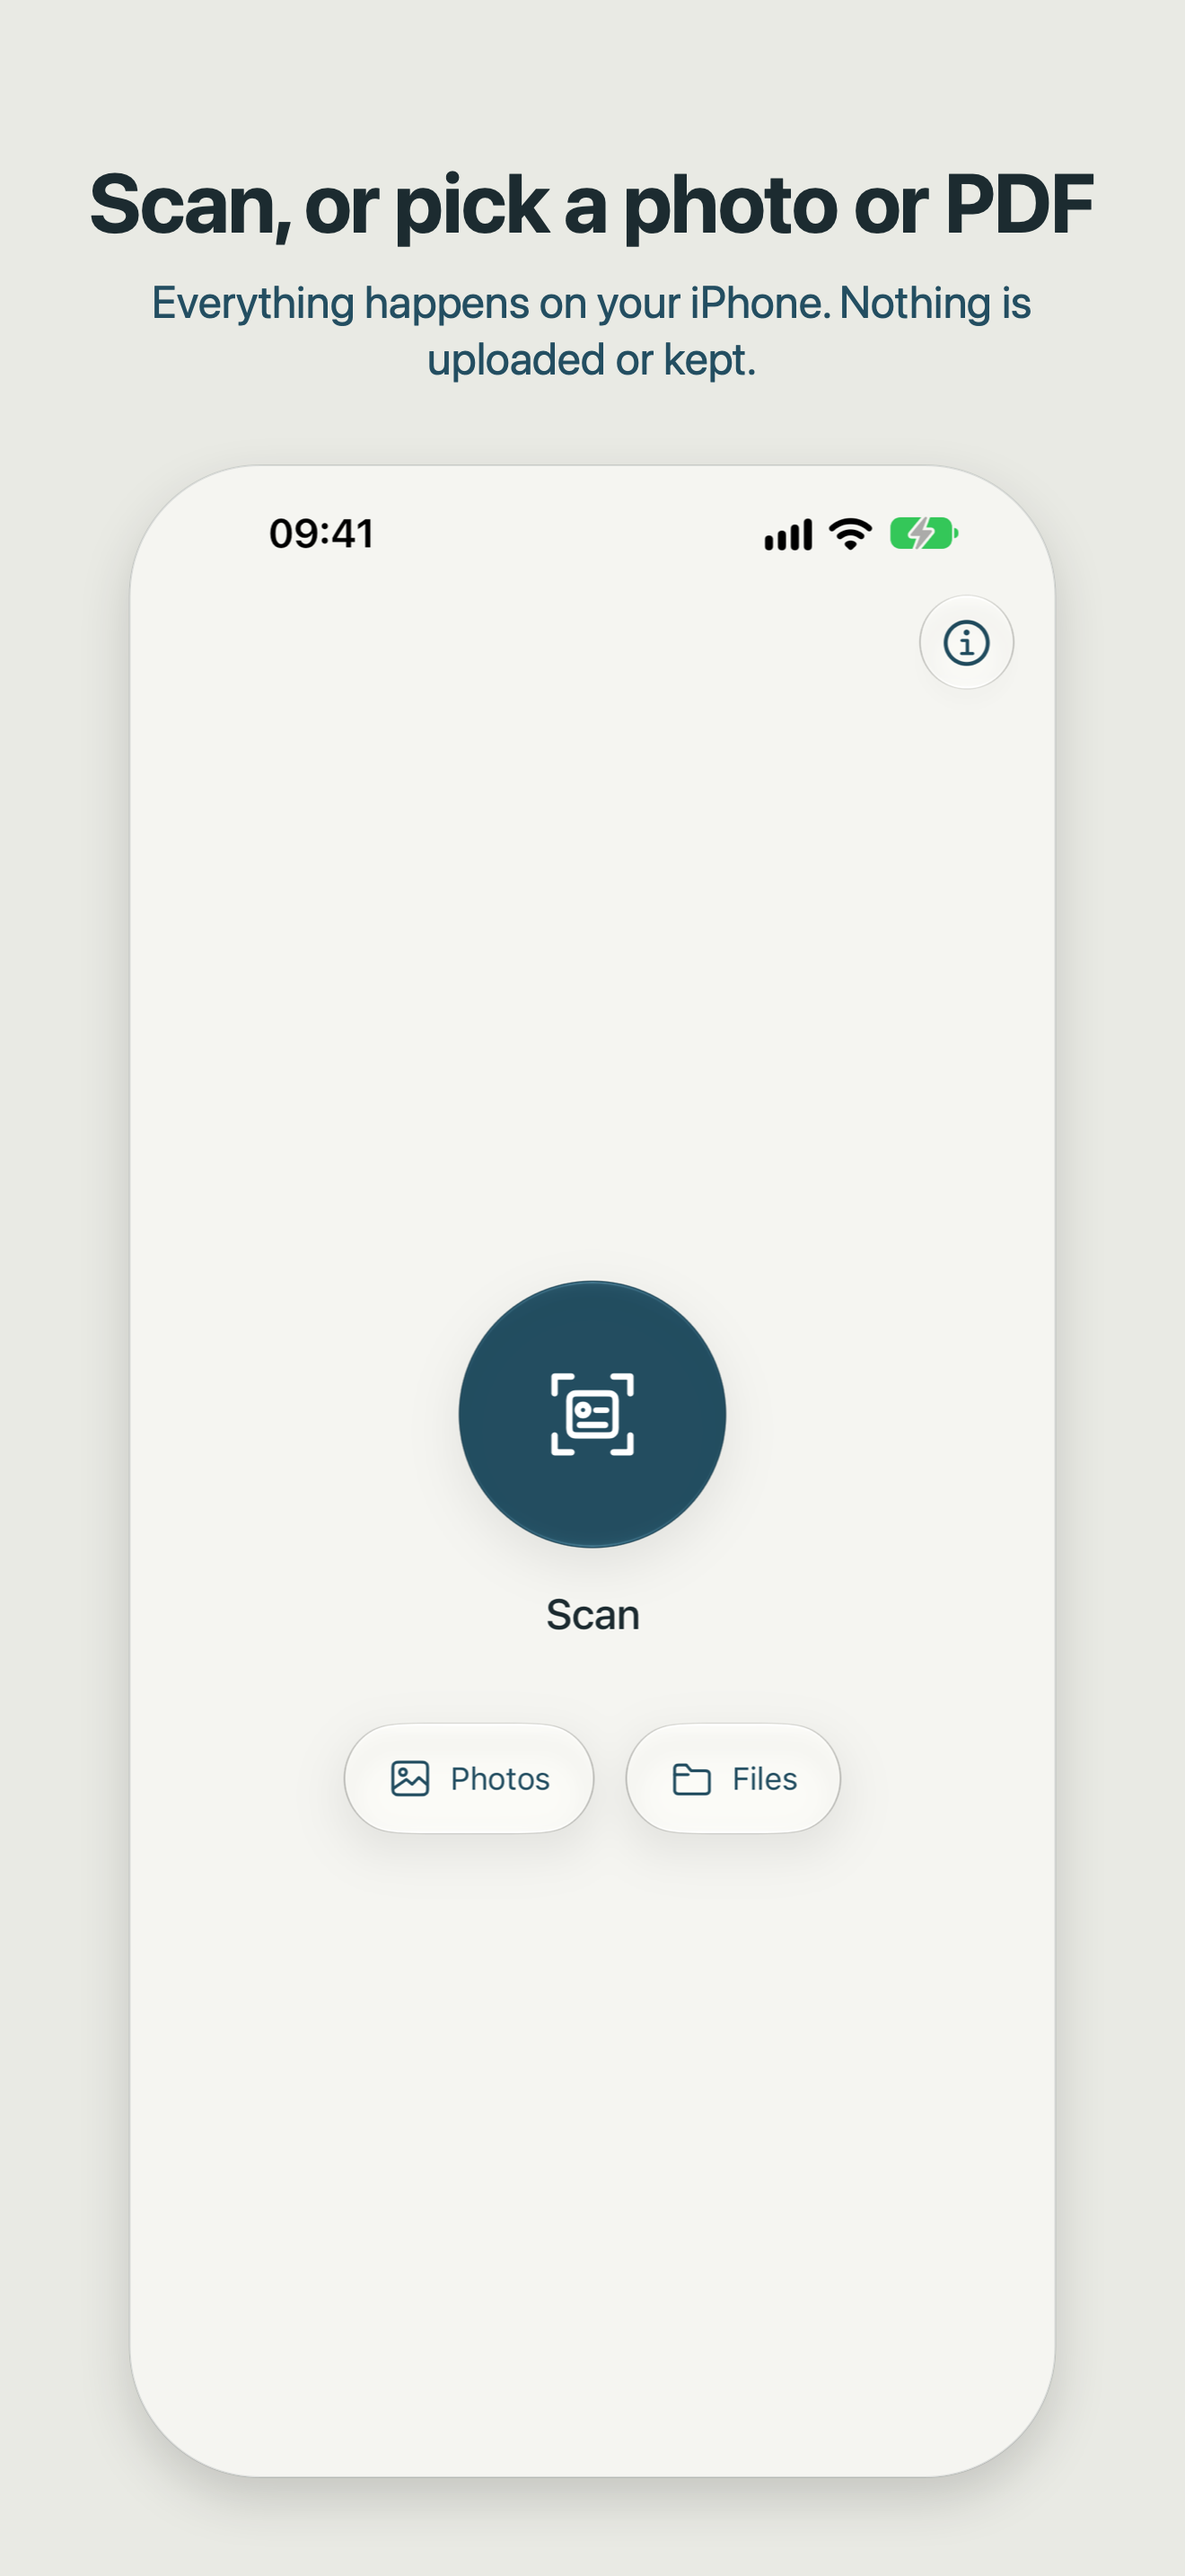
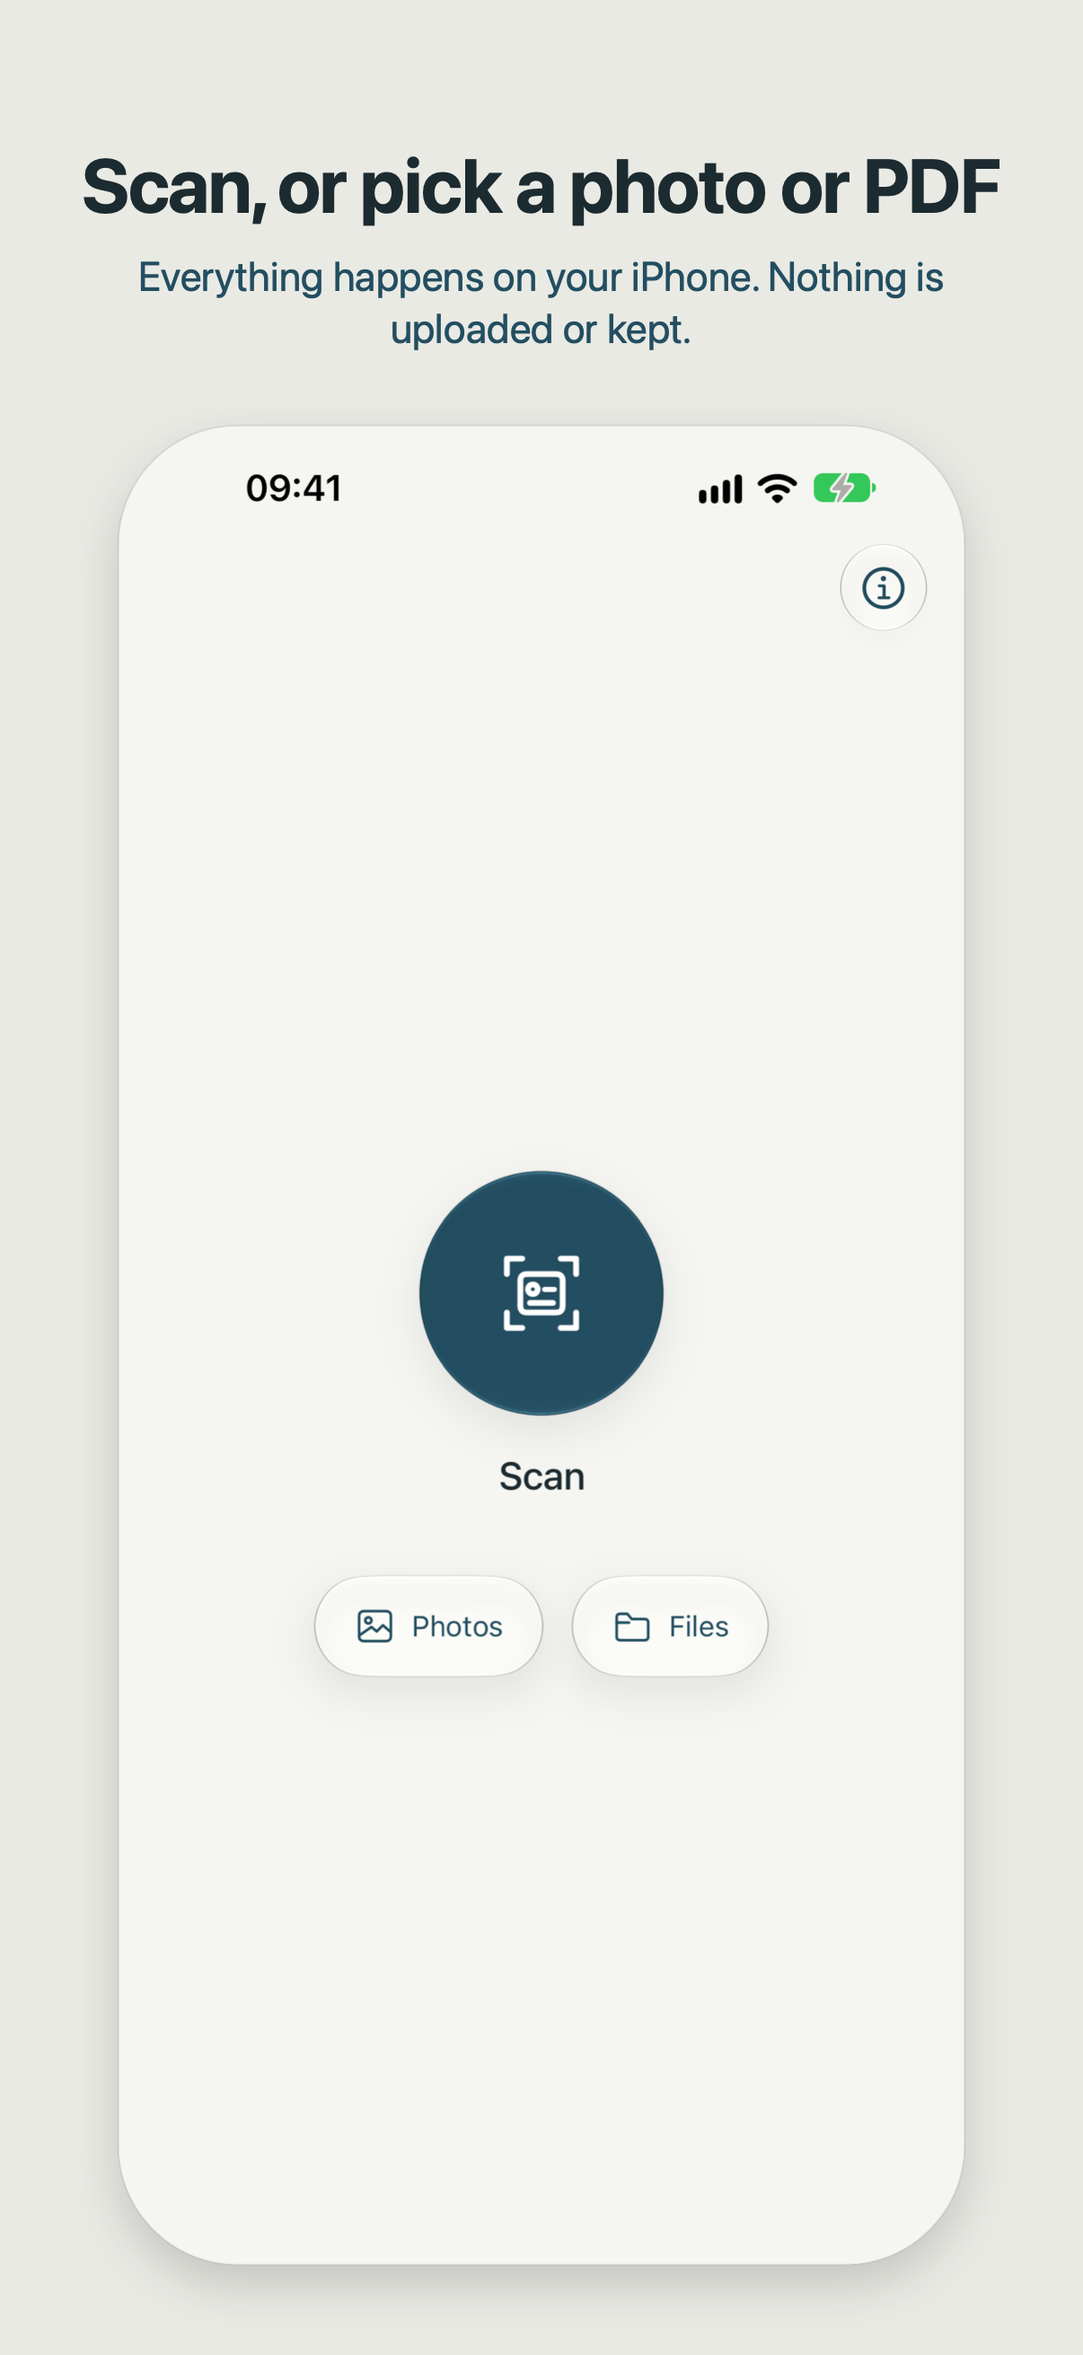
Store screenshots: 1206×2622, official specimens on the hide and copy screens

diff --git a/scripts/storeshot.swift b/scripts/storeshot.swift
@@ -1,21 +1,26 @@
 import AppKit
 
-// Composes a 1320×2868 App Store screenshot (6.9-inch iPhone): a headline and a subline on the
-// app's paper colour, above a Simulator capture with rounded corners and a soft shadow.
+// Composes an App Store screenshot: a headline and a subline on the app's paper colour, above a
+// Simulator capture with rounded corners and a soft shadow. Default 1206×2622, the size App Store
+// Connect requires for "iPhone with Dynamic Island (medium display)" (6.1"/6.3"); it is scaled
+// down for smaller iPhones.
 //
-//   swift scripts/storeshot.swift <capture.png> <out.png> <headline> <subline>
+//   swift scripts/storeshot.swift <capture.png> <out.png> <headline> <subline> [width height]
 //
 // Captures come from `xcrun simctl io <device> screenshot` on an iPhone 18 Pro Max Simulator with
 // the status bar overridden to 9:41, using synthetic documents only (see docs/APP_STORE.md).
 let args = CommandLine.arguments
-guard args.count == 5, let capture = NSImage(contentsOf: URL(fileURLWithPath: args[1])) else {
-    print("usage: storeshot.swift <capture.png> <out.png> <headline> <subline>")
+guard args.count == 5 || args.count == 7, let capture = NSImage(contentsOf: URL(fileURLWithPath: args[1])) else {
+    print("usage: storeshot.swift <capture.png> <out.png> <headline> <subline> [width height]")
     exit(2)
 }
 let out = URL(fileURLWithPath: args[2])
 let headline = args[3], subline = args[4]
 
-let W: CGFloat = 1320, H: CGFloat = 2868
+let W: CGFloat = args.count == 7 ? CGFloat(Double(args[5])!) : 1206
+let H: CGFloat = args.count == 7 ? CGFloat(Double(args[6])!) : 2622
+// Layout was designed at 1320 px wide; everything scales with the width.
+let k = W / 1320
 // App Store screenshots must not have an alpha channel: draw into an opaque sRGB context.
 let cg = CGContext(data: nil, width: Int(W), height: Int(H), bitsPerComponent: 8, bytesPerRow: 0,
                    space: CGColorSpace(name: CGColorSpace.sRGB)!, bitmapInfo: CGImageAlphaInfo.noneSkipLast.rawValue)!
@@ -31,29 +36,29 @@ NSRect(x: 0, y: 0, width: W, height: H).fill()
 
 let centred = NSMutableParagraphStyle()
 centred.alignment = .center
-centred.lineSpacing = 4
+centred.lineSpacing = 4 * k
 let head = NSAttributedString(string: headline, attributes: [
-    .font: NSFont.systemFont(ofSize: 92, weight: .bold),
+    .font: NSFont.systemFont(ofSize: 92 * k, weight: .bold),
     .foregroundColor: rgb(0x1C2B30),
     .paragraphStyle: centred,
-    .kern: -1.2,
+    .kern: -1.2 * k,
 ])
 let sub = NSAttributedString(string: subline, attributes: [
-    .font: NSFont.systemFont(ofSize: 50, weight: .regular),
+    .font: NSFont.systemFont(ofSize: 50 * k, weight: .regular),
     .foregroundColor: rgb(0x234E61),
     .paragraphStyle: centred,
 ])
-let textWidth = W - 160
+let textWidth = W - 160 * k
 let headRect = head.boundingRect(with: NSSize(width: textWidth, height: 400), options: [.usesLineFragmentOrigin])
 let subRect = sub.boundingRect(with: NSSize(width: textWidth, height: 300), options: [.usesLineFragmentOrigin])
-let top: CGFloat = 170
-head.draw(with: NSRect(x: 80, y: H - top - headRect.height, width: textWidth, height: headRect.height), options: [.usesLineFragmentOrigin])
-sub.draw(with: NSRect(x: 80, y: H - top - headRect.height - 28 - subRect.height, width: textWidth, height: subRect.height), options: [.usesLineFragmentOrigin])
+let top: CGFloat = 170 * k
+head.draw(with: NSRect(x: 80 * k, y: H - top - headRect.height, width: textWidth, height: headRect.height), options: [.usesLineFragmentOrigin])
+sub.draw(with: NSRect(x: 80 * k, y: H - top - headRect.height - 28 * k - subRect.height, width: textWidth, height: subRect.height), options: [.usesLineFragmentOrigin])
 
 // The capture, scaled to fit under the text, with the corner radius of the device's screen.
-let textBottom = top + headRect.height + 28 + subRect.height + 90
-let available = H - textBottom - 110
-let scale = min((W - 220) / capture.size.width, available / capture.size.height)
+let textBottom = top + headRect.height + 28 * k + subRect.height + 90 * k
+let available = H - textBottom - 110 * k
+let scale = min((W - 220 * k) / capture.size.width, available / capture.size.height)
 let size = NSSize(width: capture.size.width * scale, height: capture.size.height * scale)
 let frame = NSRect(x: (W - size.width) / 2, y: H - textBottom - size.height, width: size.width, height: size.height)
 let radius = 62 * scale * (capture.size.width / 440)
@@ -62,8 +67,8 @@ let shape = NSBezierPath(roundedRect: frame, xRadius: radius, yRadius: radius)
 NSGraphicsContext.saveGraphicsState()
 let shadow = NSShadow()
 shadow.shadowColor = NSColor.black.withAlphaComponent(0.16)
-shadow.shadowBlurRadius = 60
-shadow.shadowOffset = NSSize(width: 0, height: -24)
+shadow.shadowBlurRadius = 60 * k
+shadow.shadowOffset = NSSize(width: 0, height: -24 * k)
 shadow.set()
 NSColor.white.setFill()
 shape.fill()
@@ -74,7 +79,7 @@ shape.addClip()
 capture.draw(in: frame)
 NSGraphicsContext.restoreGraphicsState()
 rgb(0x1C2B30).withAlphaComponent(0.12).setStroke()
-shape.lineWidth = 2
+shape.lineWidth = 2 * k
 shape.stroke()
 
 NSGraphicsContext.restoreGraphicsState()

diff --git a/docs/APP_STORE.md b/docs/APP_STORE.md
@@ -129,7 +129,7 @@ Same as English (U.S.); the copy already uses British spelling ("licence"). Add 
 
 ### Screenshots
 
-6.9-inch iPhone, 1320 × 2868, opaque PNG, in [appstore/screenshots/en](appstore/screenshots/en). Upload in order 1–5. App Store Connect scales them for smaller iPhones. They show synthetic documents only (made-up people from `maske fixtures`).
+"iPhone with Dynamic Island (medium display)", 1206 × 2622, opaque PNG (1320 × 2868 was rejected), in [appstore/screenshots/en](appstore/screenshots/en). Upload in order 1–5. Screens 1 and 2 show official public specimens from Wikimedia Commons, not real people's documents: [Norwegian ID card 2021](https://commons.wikimedia.org/wiki/File:New_Norwegian_ID_Card_(2021)_(Front).png) (public domain, Government of Norway) and the data page of the [Dutch passport 2014](https://commons.wikimedia.org/wiki/File:Dutch_passport_specimen_issued_9_March_2014.jpg) (CC0, RvIG). The [Norwegian passport 2020](https://commons.wikimedia.org/wiki/File:Norwegian_Passport_Specimen.jpg) (public domain) is also usable, but its secondary portrait is not masked (KNOWN_ISSUES) and the Simulator's face-less portrait estimate overlaps the MRZ. Keep the images in `Fixtures/specimens/store/` (git-ignored).
 
 | File | Headline |
 |---|---|

diff --git a/docs/KNOWN_ISSUES.md b/docs/KNOWN_ISSUES.md
@@ -146,3 +146,7 @@ If correction returns nil, `straighten` now returns the source image with full-f
 - Masks were upright rectangles; on tilted text they were too big and off. They are now four-cornered shapes following the text.
 - Masks were padded boxes from Vision. They are now fitted to the actual ink (with the text's own angle) plus a thin margin.
 - The portrait or a barcode could be taken for the document's outline. An outline now has to contain most of the photo's text.
+
+## 20. Norwegian passport (2020) secondary portrait not masked
+
+On the official specimen (Commons "Norwegian Passport Specimen.jpg") `maske review` covers the main photo, passport number, CAN and MRZ but leaves the small secondary portrait right of "CAN" visible. In the Simulator (no faces) the estimated portrait zone also runs down into the MRZ, covering extra. **Next:** add the passport's secondary-portrait position to the Norwegian calibration, as for the ID card, and add a synthetic fixture.
